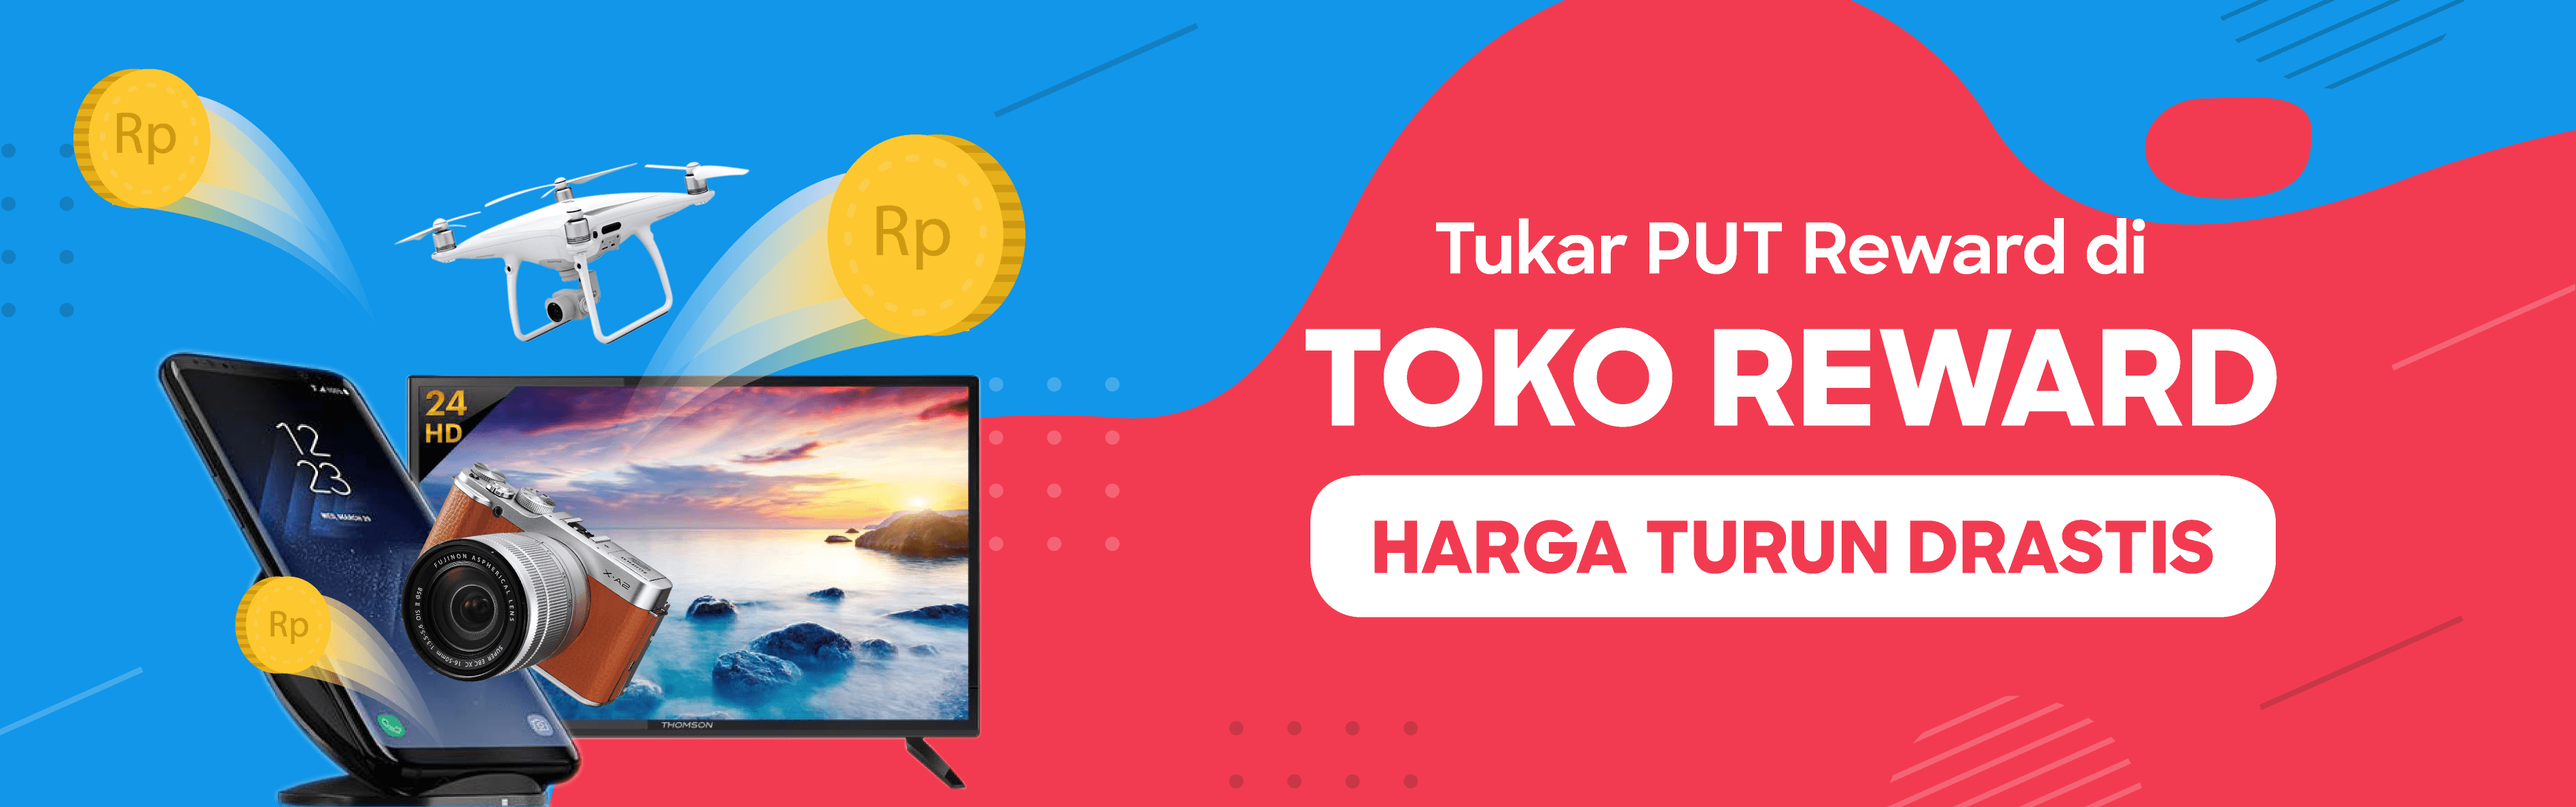
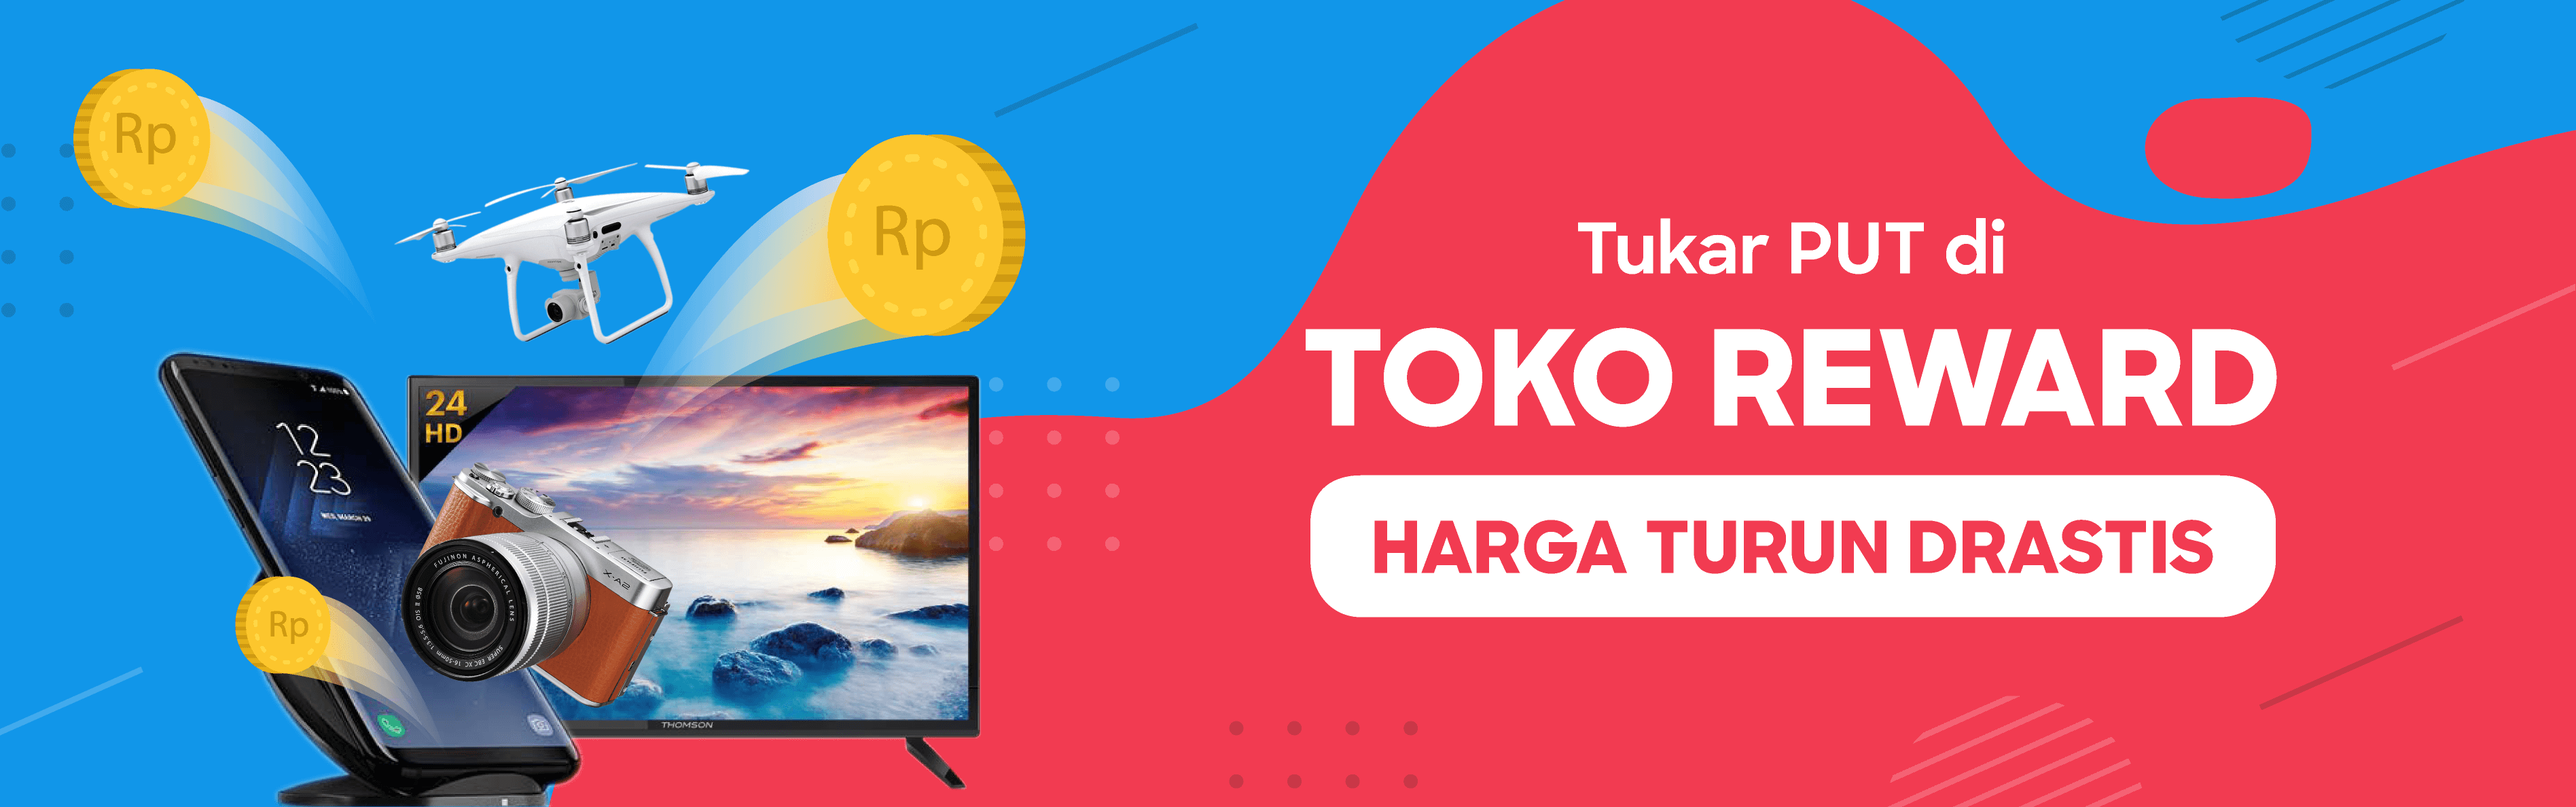
Ganti PUT Reward jadi PUT Doang

diff --git a/checkout-2.html b/checkout-2.html
@@ -126,8 +126,8 @@
                         <strong class="dblock">Ketentuan pembayaran :</strong>
                         <ol>
                           <li>Download aplikasi Paytren.</li>
-                          <li>Jika Kamu membeli produk di Toko Reward maka PUT reward kamu akan terpotong.</li>
-                          <li>Jika Kamu membeli produk bukan di Toko Reward maka PUT bagi hasil Kamu akan terpotong, tetapi jika PUT bagi hasil Kamu tidak mencukupi, maka akan memotong PUT reward.</li>
+                          <li>Pembayaran akan diproses di halaman Checkout Paytren.</li>
+                          <li>Metode pembayaran ini menggunakan Nomor HP &amp; Kode Bayar.</li>
                         </ol>
                       </div>
                     </li>
@@ -147,7 +147,6 @@
                       <div class="accordion-content" data-tab-content>
                         <strong class="dblock">Ketentuan pembayaran :</strong>
                         <ol>
-                          <li>Total belanja Kamu belum termasuk kode pembayaran.</li>
                           <li>Transaksi dengan menggunakan metode pembayaran Bank Transfer akan ada potongan harga.</li>
                           <li>Pembayaran dengan angka yang tidak tepat akan menyebabkan verifikasi pembayaran menjadi terhambat.</li>
                         </ol>

diff --git a/toko-reward/index.html b/toko-reward/index.html
@@ -305,7 +305,7 @@
                 <div class="modal-body">
                     <div class="modal-product-reward">
                         <p>
-                            Produk ini hanya bisa ditukar dengan "PUT Reward".
+                            Produk ini hanya bisa ditukar dengan "PUT".
                         </p>
                         <div class="grid-x grid-margin-x">
                             <div class="small-6 cell">
